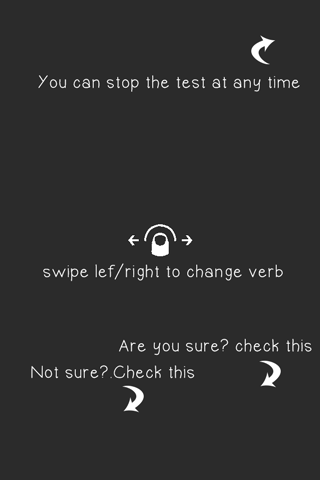
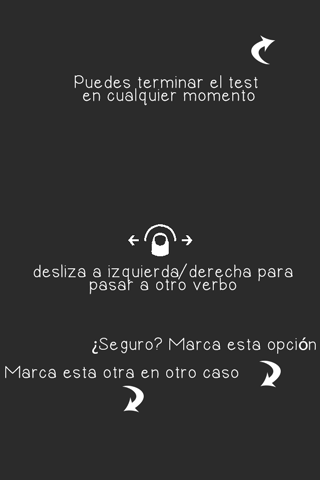
help view in test

Changed region(s): [[0.0, 0.6875, 1.0, 0.8125], [0.0938, 0.5312, 0.9375, 0.625], [0.125, 0.1562, 0.9375, 0.2188]]

diff --git a/IrregularVerbs/images.h b/IrregularVerbs/images.h
@@ -4,8 +4,6 @@
 //
 // This file is automatically generated. Any changes will be overwritten the next time images.py is invoked.
 
-#define imgTestscreenhelp4 (UIImage*)^{ UIImage *image = [UIImage imageNamed:@"testScreenHelp_4"]; ZAssert(image, @"Image testScreenHelp_4 not found"); return image; }()
-
 #define imgCheckmark64 (UIImage*)^{ UIImage *image = [UIImage imageNamed:@"checkmark_64"]; ZAssert(image, @"Image checkmark_64 not found"); return image; }()
 
 #define imgIcon57 (UIImage*)^{ UIImage *image = [UIImage imageNamed:@"icon57"]; ZAssert(image, @"Image icon57 not found"); return image; }()
@@ -25,8 +23,6 @@
 #define imgIconevaluar (UIImage*)^{ UIImage *image = [UIImage imageNamed:@"iconEvaluar"]; ZAssert(image, @"Image iconEvaluar not found"); return image; }()
 
 #define imgCheckOkGrey (UIImage*)^{ UIImage *image = [UIImage imageNamed:@"check_ok_grey"]; ZAssert(image, @"Image check_ok_grey not found"); return image; }()
-
-#define imgTestscreenhelp3dot5 (UIImage*)^{ UIImage *image = [UIImage imageNamed:@"testScreenHelp_3dot5"]; ZAssert(image, @"Image testScreenHelp_3dot5 not found"); return image; }()
 
 #define imgCheckOkDarkGrey (UIImage*)^{ UIImage *image = [UIImage imageNamed:@"check_ok_dark_grey"]; ZAssert(image, @"Image check_ok_dark_grey not found"); return image; }()
 

diff --git a/IrregularVerbs/ImgIndependentHelper.m b/IrregularVerbs/ImgIndependentHelper.m
@@ -31,12 +31,12 @@ return backgroundImageView;
     
     if ([[UIScreen mainScreen] bounds].size.height == 568) {
         
-        backgroundImageView = [[UIImageView alloc] initWithImage:imgTestscreenhelp4];
+        backgroundImageView = [[UIImageView alloc] initWithImage:[UIImage imageNamed:@"testScreenHelp_4"]];
         [backgroundImageView setFrame:CGRectMake(0, 0, 320, 568)];
     }
     else{
         
-        backgroundImageView = [[UIImageView alloc] initWithImage:imgTestscreenhelp3dot5];
+        backgroundImageView = [[UIImageView alloc] initWithImage:[UIImage imageNamed:@"testScreenHelp_3dot5"]];
         [backgroundImageView setFrame:CGRectMake(0, 0, 320, 480)];
     }
     return backgroundImageView;

diff --git a/IrregularVerbs/RootTestViewController.m b/IrregularVerbs/RootTestViewController.m
@@ -154,7 +154,7 @@
     [[self view] insertSubview: [ImgIndependentHelper getBackgroundImageView] atIndex:0];
     
     self.helpImage  = [ImgIndependentHelper getTestHelpImageView];
-    [[NSUserDefaults standardUserDefaults] setBool:NO forKey:@"firsTimeAssistantShown"];
+   
     if(![[NSUserDefaults standardUserDefaults] boolForKey:@"firsTimeAssistantShown"]){
         isHelpViewVisible = YES;
         [ASDepthModalViewController presentView:self.helpPopUpView withBackgroundColor:nil popupAnimationStyle:ASDepthModalAnimationNone];
